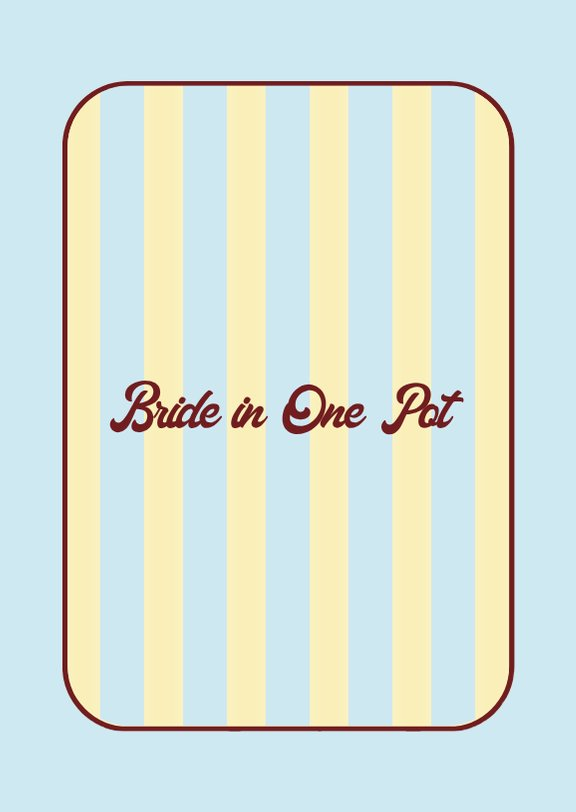
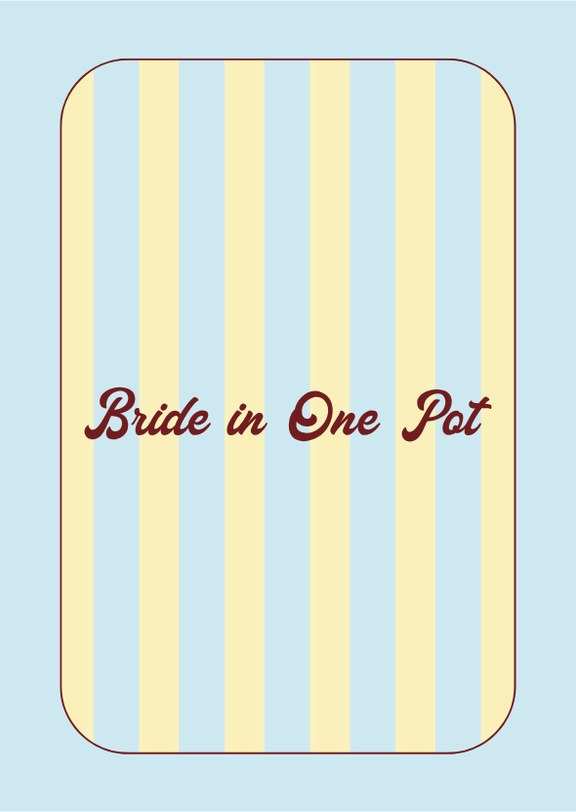
fix(home): דני, סיישל and אואזיס cards drawn as they print
The homepage cards for these three had heavier outlines than the printed card:
- דני: ~5px against a ~2px line.
- סיישל: ~11-13px against ~4px, and a deeper cream frame.
- אואזיס's back: ~6px against ~2px.

- Backs are re-cut from the print render (staging /api/preview).
- דני's front is cut from its template card (/api/template-image), the card
  that prints.
- סיישל's front comes from the print render, since a built-in has no public
  template card.
- Fronts 2-8 of דני and סיישל can't be corrected: the old cuts also carry
  older lettering (דני) and frame colours (סיישל), and those fronts exist
  only on the volume. Both show front 1 until the owner sends the Canva
  fronts; f2-f8 are removed (the front-count test checks it).

Changed region(s): [[0.0938, 0.0616, 0.9062, 0.9544]]

diff --git a/site/js/home-data.js b/site/js/home-data.js
@@ -3,7 +3,9 @@
 // (tests/unit/home-data.test.js). The page itself is js/home-new.js.
 
 // The single cards and boards the owner approved in the redesign (DESIGN.md, "Shapes"): cut from the live deck sheets and
-// print templates, each card's frame evened to 10.78% of its width. They live in assets/home/, keyed by the live design id.
+// print templates, each card's frame evened to 10.78% of its width. The cards that must match the print exactly (football-boys,
+// daniel-amit, posttrip, and grapefruit's back) are cut whole from the template card or the print render instead, outline and
+// frame as printed. They live in assets/home/, keyed by the live design id.
 // `color` is the design's main colour, sampled from its real card; the panel and the tapped view derive from it.
 // `sharp`: the widths of each card's sharper twin, <name>@2x.webp, as [fronts, back] (the 400 px card stays the src). Each twin is
 // as wide as its source really holds: 800 from a print template, ~576 from a 2000 px deck sheet (8 cards a sheet), never upscaled.
@@ -41,9 +43,10 @@ export const DESIGN_ART = {
     board2x: true,
     sharp: [800, 800],
   },
+  // one front, from the template card that prints; the old cuts of fronts 2-8 had a heavier outline and older lettering
   'daniel-amit': {
     color: '#f5d98f',
-    fronts: 8,
+    fronts: 1,
     back: true,
     board: true,
     board2x: true,
@@ -58,9 +61,10 @@ export const DESIGN_ART = {
     board2x: true,
     sharp: [800, 636],
   },
+  // one front, from the print render (its template card is not public); the old cuts had a heavier outline and frame colour
   posttrip: {
     color: '#90d8e4',
-    fronts: 8,
+    fronts: 1,
     back: true,
     board: true,
     board2x: true,
